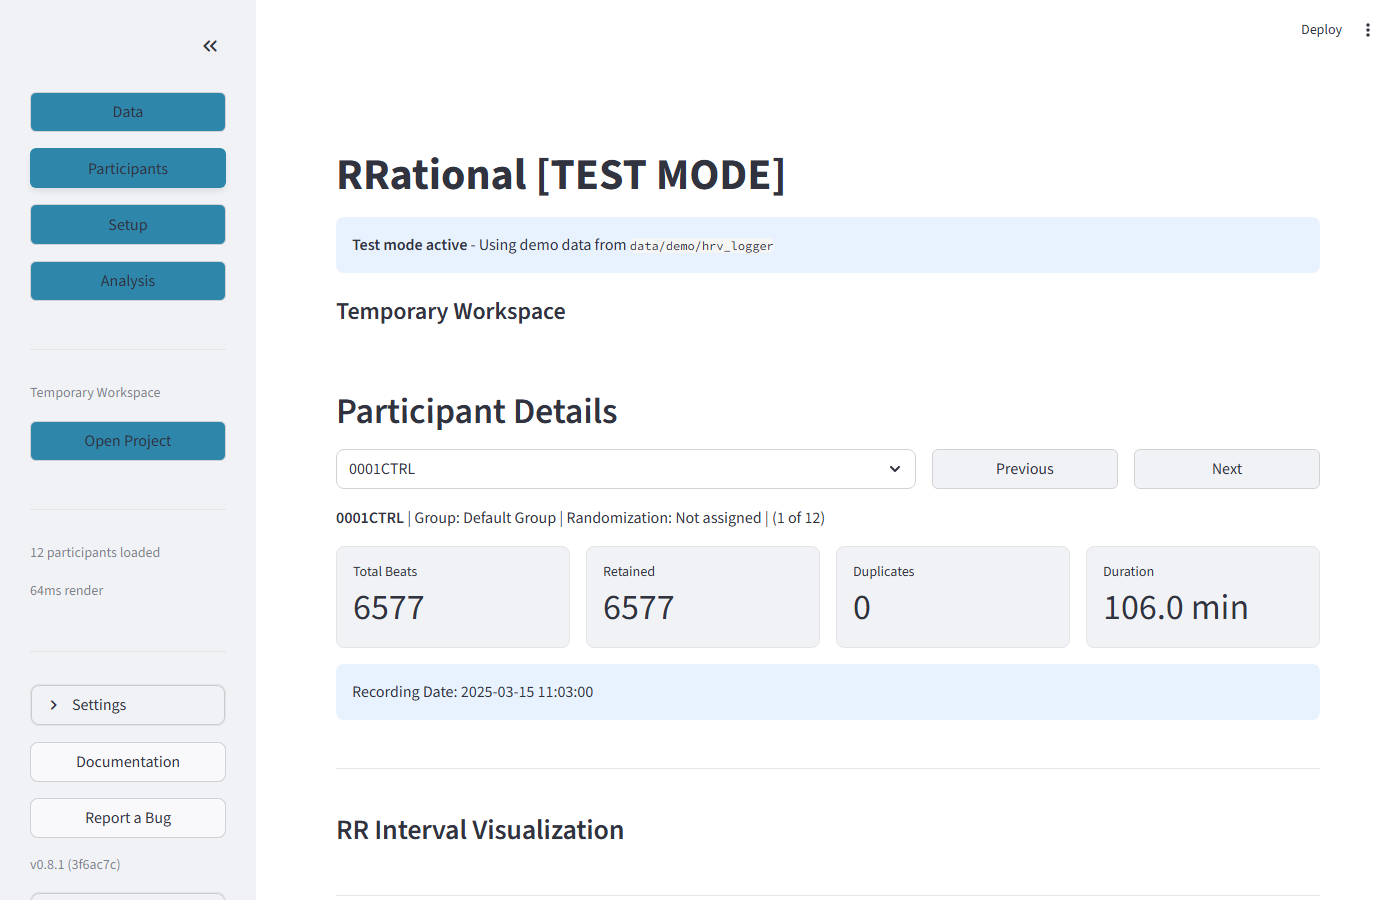
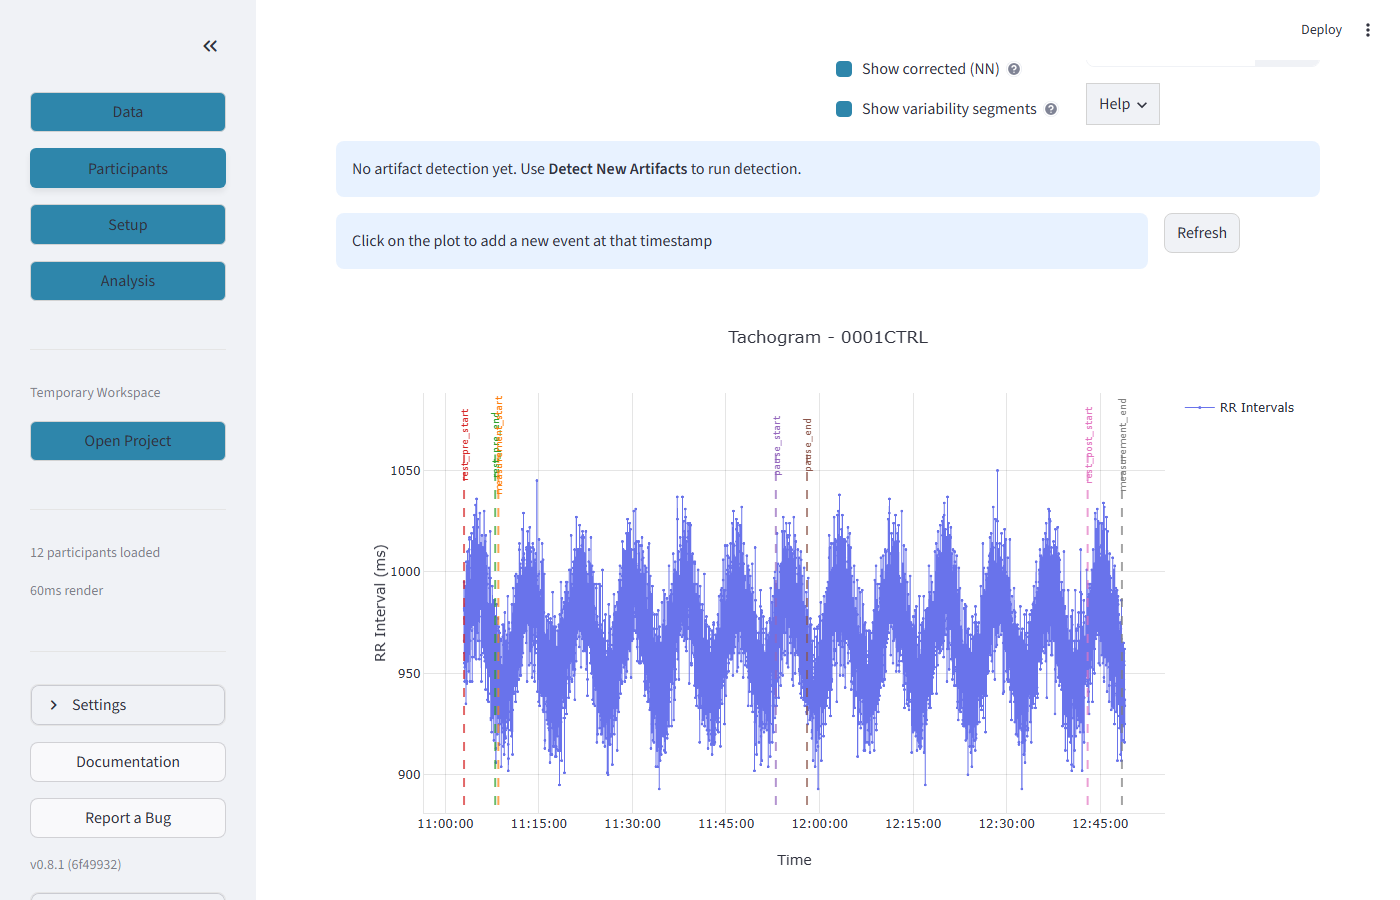
docs: add artifact detection screenshots to workflow
Successfully captured all 3 missing screenshots:
- artifact-detection-settings.png: tachogram with artifact markers
- artifact-detection-results.png: section validation and data integrity
- tachogram-with-artifacts.png: detection scope settings (all options)

Key fix: "Show artifacts" checkbox must be enabled first to trigger
the @st.fragment that contains the "Detect New Artifacts" expander.

diff --git a/scripts/take_artifact_screenshots.py b/scripts/take_artifact_screenshots.py
@@ -1,0 +1,164 @@
+"""Take artifact detection screenshots.
+
+The "Detect New Artifacts" expander only appears when "Show artifacts" checkbox
+is enabled in the plot fragment. We need to check that checkbox first.
+"""
+
+from pathlib import Path
+from playwright.sync_api import sync_playwright
+
+BASE_URL = "http://localhost:8501"
+OUT = Path("docs/assets/screenshots")
+W, H = 1400, 900
+
+
+def wait_st(page, ms=2000):
+    try:
+        page.get_by_text("Running...").wait_for(state="detached", timeout=15000)
+    except Exception:
+        pass
+    page.wait_for_timeout(ms)
+
+
+def save(page, name):
+    path = OUT / name
+    page.screenshot(path=str(path))
+    kb = path.stat().st_size // 1024
+    print(f"  [{kb:>4}KB] {name}")
+
+
+def main():
+    OUT.mkdir(parents=True, exist_ok=True)
+
+    with sync_playwright() as p:
+        browser = p.chromium.launch(
+            headless=True,
+            args=["--enable-webgl", "--use-gl=swiftshader"],
+        )
+        ctx = browser.new_context(viewport={"width": W, "height": H})
+        page = ctx.new_page()
+
+        # Load & navigate to Participants
+        print("1. Loading app...")
+        page.goto(BASE_URL)
+        wait_st(page, 5000)
+        page.locator("[data-testid='stSidebar'] button:has-text('Participants')").first.click()
+        wait_st(page, 3000)
+
+        # Enable "Show artifacts" checkbox to trigger the artifact fragment
+        print("2. Enabling 'Show artifacts' checkbox...")
+        checked = page.evaluate("""() => {
+            const main = document.querySelector('[data-testid="stMain"]');
+            if (!main) return {found: false, error: 'no stMain'};
+
+            // Find all checkbox labels
+            const labels = main.querySelectorAll('label');
+            for (const label of labels) {
+                if (label.textContent.includes('Show artifacts')) {
+                    // Click the checkbox input
+                    const input = label.querySelector('input[type="checkbox"]');
+                    if (input && !input.checked) {
+                        label.click();
+                        return {found: true, clicked: true};
+                    } else if (input && input.checked) {
+                        return {found: true, clicked: false, alreadyChecked: true};
+                    }
+                    // Fallback: click the label itself
+                    label.click();
+                    return {found: true, clicked: true, fallback: true};
+                }
+            }
+            return {found: false, labelCount: labels.length};
+        }""")
+        print(f"   Result: {checked}")
+        wait_st(page, 5000)  # Fragment reruns after checkbox change
+
+        # Now search for "Detect New Artifacts" expander
+        print("3. Searching for Detect New Artifacts after checkbox...")
+        expanders = page.evaluate("""() => {
+            const details = document.querySelectorAll('details');
+            return Array.from(details).map((d, i) => ({
+                index: i,
+                open: d.open,
+                text: d.textContent.substring(0, 60),
+                y: d.getBoundingClientRect().y,
+            })).filter(d => d.text.includes('Detect'));
+        }""")
+        print(f"   Detect expanders: {expanders}")
+
+        if expanders:
+            idx = expanders[0]['index']
+            print(f"4. Opening Detect expander (details[{idx}])...")
+
+            # Open it and scroll into view
+            page.evaluate(f"""() => {{
+                const allDetails = document.querySelectorAll('details');
+                // Find all details that match, use the actual index from allDetails
+                for (const d of allDetails) {{
+                    if (d.textContent.includes('Detect New Artifacts')) {{
+                        d.scrollIntoView({{block: 'start', behavior: 'instant'}});
+                        d.open = true;
+                        const summary = d.querySelector('summary');
+                        if (summary) summary.click();
+                        break;
+                    }}
+                }}
+            }}""")
+            wait_st(page, 3000)
+            save(page, "artifact-detection-settings.png")
+
+            # Find and click Run Detection
+            print("5. Running detection...")
+            run_clicked = page.evaluate("""() => {
+                const buttons = document.querySelectorAll('button');
+                for (const b of buttons) {
+                    if (b.textContent.includes('Run Detection')) {
+                        b.scrollIntoView({block: 'center', behavior: 'instant'});
+                        b.click();
+                        return {clicked: true, text: b.textContent.trim()};
+                    }
+                }
+                return {clicked: false};
+            }""")
+            print(f"   Run button: {run_clicked}")
+
+            if run_clicked.get('clicked'):
+                print("   Waiting for detection to complete (15s)...")
+                wait_st(page, 15000)
+                save(page, "artifact-detection-results.png")
+
+                # Scroll to tachogram to see artifacts on plot
+                print("6. Scrolling to tachogram with artifacts...")
+                page.evaluate("""() => {
+                    const main = document.querySelector('[data-testid="stMain"]');
+                    if (!main) return;
+                    const h = [...main.querySelectorAll('h1,h2,h3,h4,h5,h6')]
+                        .find(h => h.textContent.includes('RR Interval'));
+                    if (h) h.scrollIntoView({block: 'start', behavior: 'instant'});
+                }""")
+                page.evaluate("""() => {
+                    const main = document.querySelector('[data-testid="stMain"]');
+                    if (main) main.scrollBy(0, 350);
+                }""")
+                page.wait_for_timeout(4000)
+                save(page, "tachogram-with-artifacts.png")
+        else:
+            print("   ! Still no Detect expander found after enabling checkbox")
+            # Debug: list ALL details elements
+            all_details = page.evaluate("""() => {
+                return Array.from(document.querySelectorAll('details')).map((d, i) => ({
+                    i: i, text: d.textContent.substring(0, 50), y: d.getBoundingClientRect().y
+                }));
+            }""")
+            print(f"   All <details>: {len(all_details)}")
+            for d in all_details:
+                print(f"     [{d['i']}] y={d['y']:.0f} '{d['text']}'")
+
+        browser.close()
+
+    pngs = sorted(OUT.glob("*.png"))
+    print(f"\nDone! {len(pngs)} total screenshots")
+
+
+if __name__ == "__main__":
+    main()

diff --git a/docs/user-guide/workflow.md b/docs/user-guide/workflow.md
@@ -172,7 +172,7 @@ Above the plot, enable/disable overlays using checkboxes:
 1. In the Participants tab, find the **Mode** radio buttons
 2. Select **"Signal Inspection"**
 
-![Signal Inspection mode with plot options](../assets/screenshots/tachogram.png)
+![Artifact detection settings and scope](../assets/screenshots/tachogram-with-artifacts.png)
 
 ### 4.2 Configure Artifact Detection
 
@@ -199,6 +199,9 @@ Expand **"Detect New Artifacts"**:
     - Quality summary shows: artifact count, rate, and grade per segment
     - Segment assessment table with include/exclude checkboxes
 
+![Tachogram with artifact markers](../assets/screenshots/artifact-detection-settings.png)
+
+![Section validation and data integrity results](../assets/screenshots/artifact-detection-results.png)
 
 ### 4.4 Per-Segment Quality Assessment
 
